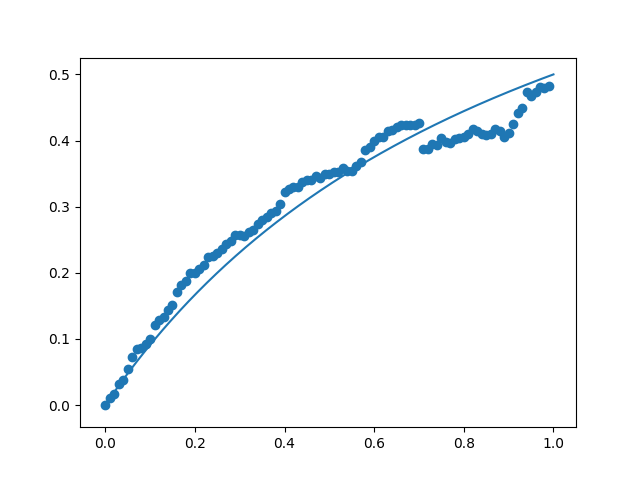
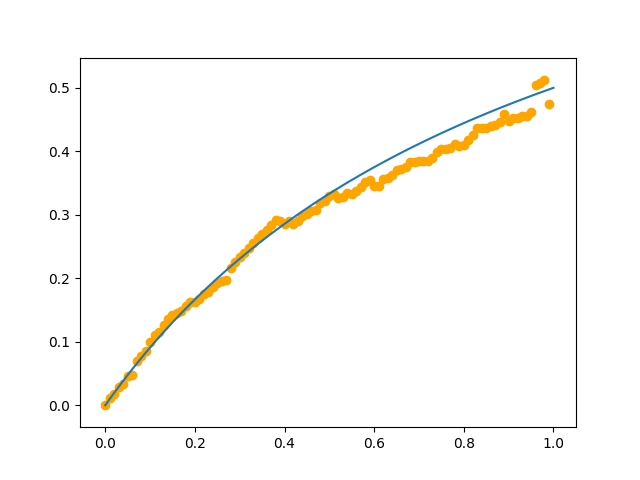
try again

diff --git a/programming/kadai04.py b/programming/kadai04.py
@@ -11,7 +11,7 @@ for i in range(100):
   x.append(q)
   y.append(int(proc.stdout.decode("utf8")) / step)
 
-plt.scatter(x, y, label=1)
+plt.scatter(x, y, color="orange")
 x = np.linspace(0, 1, 1000)
 y = x / (x + 1)
 plt.plot(x, y)
